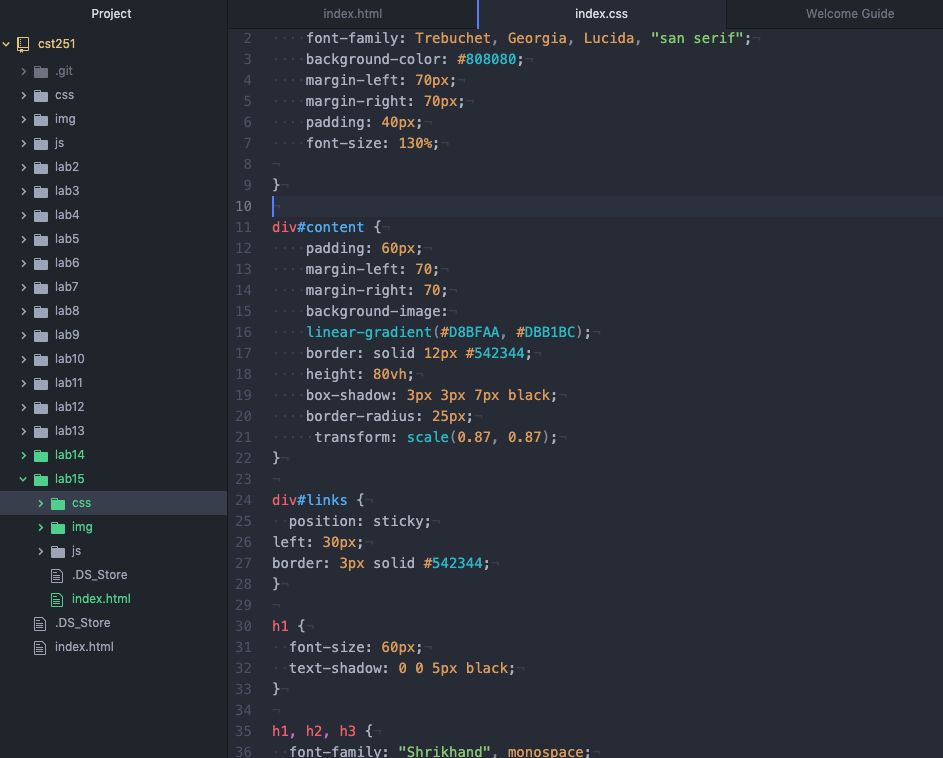
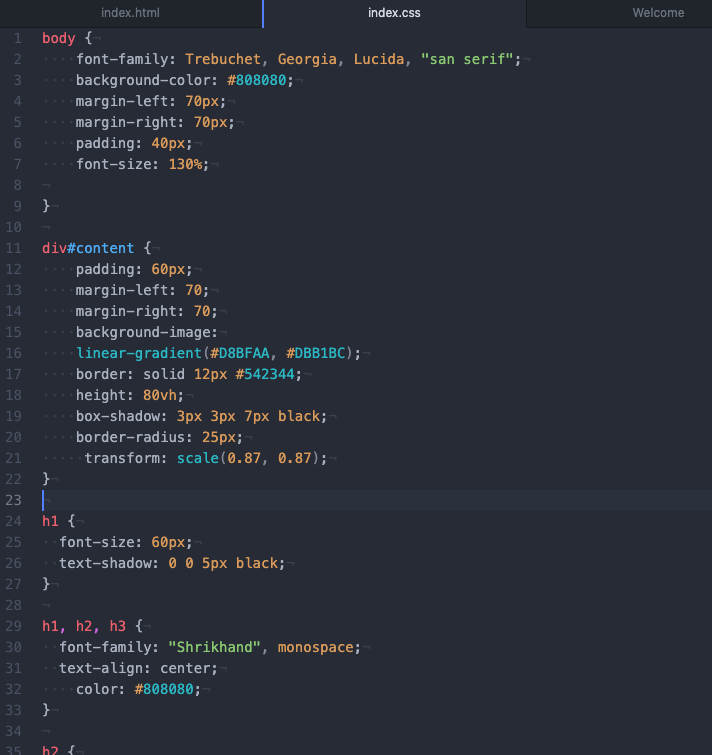
Changed images around

diff --git a/lab15/css/index.css b/lab15/css/index.css
@@ -21,12 +21,6 @@ div#content {
      transform: scale(0.87, 0.87);
 }
 
-div#links {
-  position: sticky;
-left: 30px;
-border: 3px solid #542344;
-}
-
 h1 {
   font-size: 60px;
   text-shadow: 0 0 5px black;
